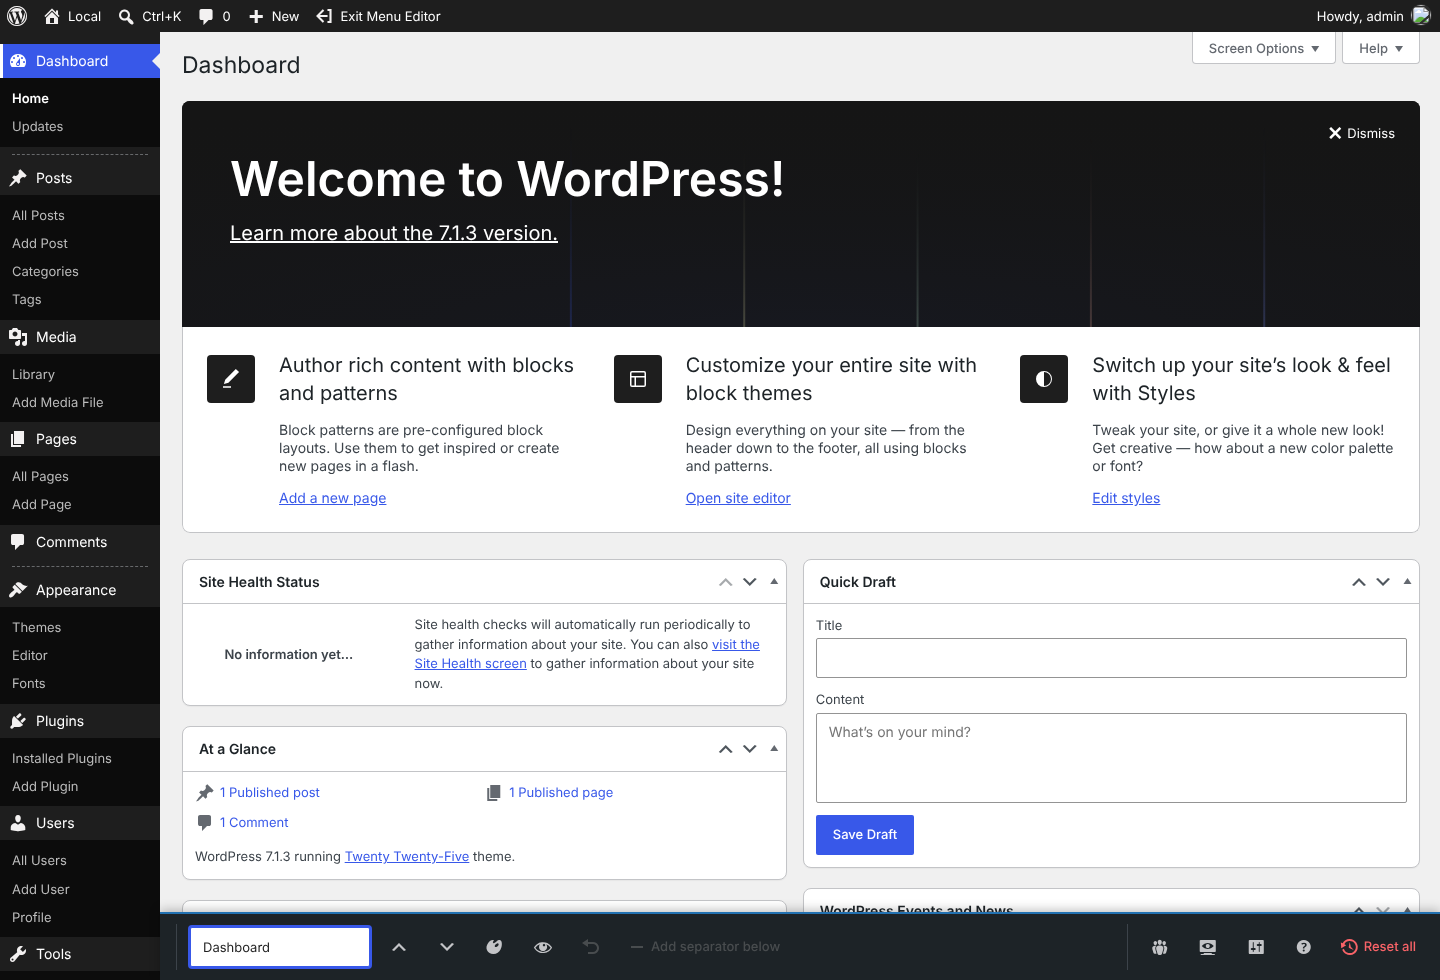
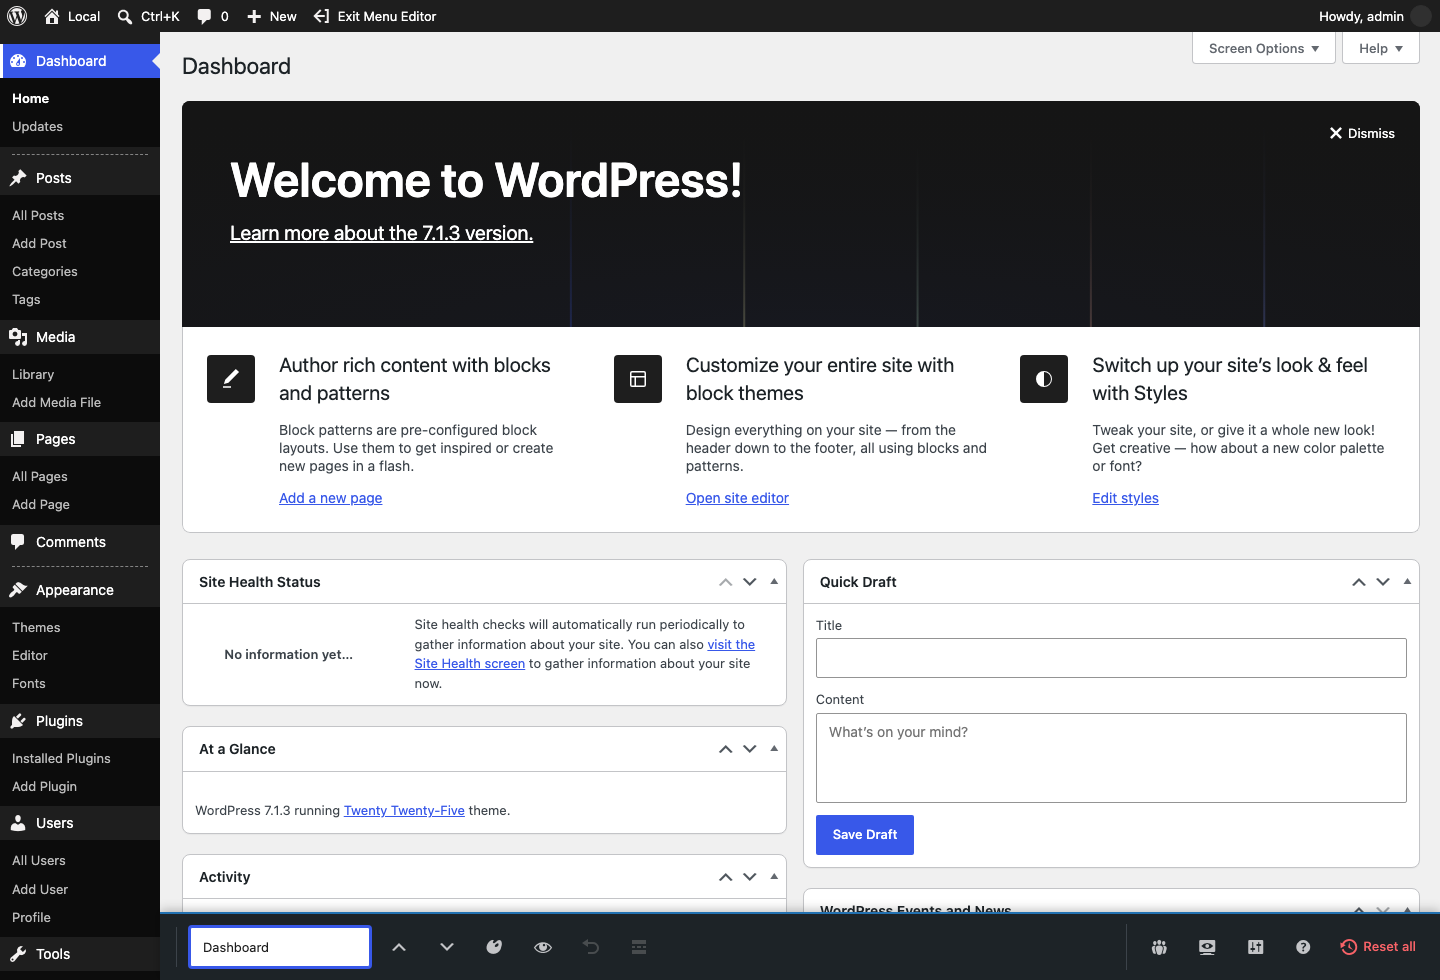
docs: record the 1.11.0 release; recapture screenshot 1 (#278)
* docs: record the v1.11.0 release in README, STATE and ROADMAP

Claude-Session: https://claude.ai/code/session_01WPtgA1Rexv3K7fLbaMQmjw

* docs: recapture screenshot 1 for icon-only separator buttons (1.11.0)

---------

diff --git a/README.md b/README.md
@@ -111,14 +111,14 @@ For the longer walkthrough, see [`docs/user-guide.md`](docs/user-guide.md).
 
 ## Status
 
-**v1.10.0 is live on the WordPress.org plugin directory** ([maestro-menu-editor](https://wordpress.org/plugins/maestro-menu-editor/)). It adds export/import, a larger icon picker and SVG icons that follow the menu colours to 1.9.0's role preview, visibility groups and phone work (full history in the [changelog](readme.txt), roadmap in [`.planning/ROADMAP.md`](.planning/ROADMAP.md)). Every test layer is expected to stay green: PHP unit and integration tests, Playwright E2E, JavaScript unit tests, phpcs, PHPStan, and Plugin Check on the runtime build. The editor uses the click-to-select model with debounced autosave:
+**v1.11.0 is live on the WordPress.org plugin directory** ([maestro-menu-editor](https://wordpress.org/plugins/maestro-menu-editor/)). It adds a WordPress icon tab (WordPress 7.1+), safer separator editing, a notice when the browser runs old editor files and a lasting saved check to 1.10.0's export/import and colour-matched SVG icons (full history in the [changelog](readme.txt), roadmap in [`.planning/ROADMAP.md`](.planning/ROADMAP.md)). Every test layer is expected to stay green: PHP unit and integration tests, Playwright E2E, JavaScript unit tests, phpcs, PHPStan, and Plugin Check on the runtime build. The editor uses the click-to-select model with debounced autosave:
 
 - **Debounced autosave (~500 ms)** on reorder, rename, icon pick, visibility toggle, and per-item reset — no manual Save button; a "Saving… / Saved" status indicator (dashicon + text) instead. Saves are serialized (single-flight) so a slow request can't overwrite newer edits. Reload only on Exit (which flushes any pending save) and on Reset all.
 - **Click-to-select with one shared editing toolbar.** No edit chrome on the rows until an item is selected: each shows only a hover/focus-revealed drag handle. Selecting an item fills the toolbar along the bottom (rename, ▲/▼ move, icon picker for top-level items, visibility, reset-this-item, add separator), and its right side holds the menu-wide tools (visibility groups, Preview as, Settings, help tour, Reset all).
 
 - **Visibility on six independent axes.** The popover carries hide-by-role, hide-by-person and hide-by-group, each in a "this item" and an "its sub-items" variant, so a parent can stay visible while its children vanish for exactly the roles or people you choose. The person picker searches core's `wp/v2/users` endpoint (already gated by `list_users`), so it scales past a few hundred users instead of dumping the whole user base into the page. A visibility group is a named, reusable list of people: the items it hides are compiled onto each item when saved, and who is in it is resolved live on every request, so membership changes need no re-save. Groups are authored only by users with `list_users`, and are withheld from everyone else server-side. Every axis is cosmetic: a hidden page still loads by URL, and `current_user_can()` is provably unchanged — asserted by a dedicated guardrail test that snapshots the target role's entire capability map before, during, and after a rule.
 - **Stable expanded menu while editing.** Folded/auto-fold mode is neutralized on entry and re-stripped if `common.js` reapplies it, so editing always happens against the expanded menu.
-- **Icons: all four native WordPress forms** (dashicon, `none`, base64 image data-URI, image URL), validated server-side. The picker bundles two sets in square, single-colour cells — all 342 dashicons and 437 curated [Bootstrap Icons](https://icons.getbootstrap.com/), grouped by admin topic and loaded the first time their tab opens — with a search filter and a "No icon" option. It opens on the tab of the item's current icon, and is keyboard-accessible (dialog/tablist roles, arrow-key navigation, focus trap) and mobile-sized. A stored SVG icon is painted as a CSS mask, so it takes the menu's idle, hover and current colours in every admin colour scheme. Icon changes persist via autosave (covered by E2E: pick → POST carries the icon → survives reload).
+- **Icons: all four native WordPress forms** (dashicon, `none`, base64 image data-URI, image URL), validated server-side. The picker bundles two sets in square, single-colour cells — all 342 dashicons and 437 curated [Bootstrap Icons](https://icons.getbootstrap.com/), grouped by admin topic and loaded the first time their tab opens — plus, on WordPress 7.1 and later, a WordPress tab listing every icon in core's icon registry (served on demand by `GET maestro/v1/icons`), with a search filter and a "No icon" option. It opens on the tab of the item's current icon, and is keyboard-accessible (dialog/tablist roles, arrow-key navigation, focus trap) and mobile-sized. A stored SVG icon is painted as a CSS mask, so it takes the menu's idle, hover and current colours in every admin colour scheme. Icon changes persist via autosave (covered by E2E: pick → POST carries the icon → survives reload).
 - **Preview as a role.** A read-only Dashboard preview narrows your own capabilities to the chosen role for that request only, applies Maestro's rules for the role, and saves nothing. It is an approximation: person and group rules, per-user grants and multi-role users can differ.
 - **Export/import.** A versioned, portable JSON file (format separate from the stored schema) carries names, icons, role rules, ordering, separators and width. Import is two-step: a read-only review reports what can't be applied, then an explicit import replaces only the portable settings. Person rules and visibility groups never leave the site and are preserved on the destination.
 

diff --git a/.planning/STATE.md b/.planning/STATE.md
@@ -2,10 +2,10 @@
 gsd_state_version: 1.0
 milestone: v1.11
 milestone_name: Acceptance & Polish
-status: in_progress
-stopped_at: "v1.11.0 cut 2026-10-28: Phases 32–36 merged (#275, #276); release PR open, awaits Dan's v1.11.0 tag. Human acceptance per milestones/v1.11-ACCEPTANCE.md."
-last_updated: "2026-10-28T02:00:00.000Z"
-last_activity: "2026-10-28 — v1.11.0 release prep (Phase 37)."
+status: shipped
+stopped_at: "v1.11.0 shipped to WordPress.org 2026-10-29 (tag on 3296942). Human acceptance per milestones/v1.11-ACCEPTANCE.md remains open."
+last_updated: "2026-10-29T14:00:00.000Z"
+last_activity: "2026-10-29 — v1.11.0 released to WordPress.org."
 progress:
   total_phases: 3
   completed_phases: 0
@@ -23,6 +23,8 @@ v1.10.0 shipped to WordPress.org on 2026-10-27 (tag on `46bce57`). Dan chose
 phases and prep for his iPad, touch and VoiceOver passes. Plan:
 [milestones/v1.11-ROADMAP.md](milestones/v1.11-ROADMAP.md). #261 stays a
 separate prototype; #167/#168 stay watch-only.
+
+**Shipped — 1.11.0 (2026-10-29).** Dan tagged `v1.11.0` on `3296942`; release run 40880549320 built the GitHub Release and deployed to WordPress.org at 13:31Z. The follow-up docs PR recaptures screenshot 1 for the icon-only separator buttons.
 
 **Release prep — 1.11.0 (2026-10-28).** Phase 32 (registry icon set) merged in
 #275; Phases 33–36 (separators, stale-files notice, saved check, acceptance

diff --git a/.planning/ROADMAP.md b/.planning/ROADMAP.md
@@ -23,7 +23,7 @@
 
 **v1.11 (2026-10-28):** 1.10.0 shipped to WordPress.org 2026-10-27. 1.11 is
 planned in [milestones/v1.11-ROADMAP.md](milestones/v1.11-ROADMAP.md). Phases
-32–36 merged 2026-10-28 (#275, #276); Phase 37 (release 1.11.0) awaits Dan's tag.
+32–37 complete: 1.11.0 shipped to WordPress.org 2026-10-29. Human iPad, touch and VoiceOver acceptance is open.
 
 Desktop refinement follow-up (2026-10-24): compact Preview picker on desktop,
 header close actions, one Menu width title, floating save status, admin-scheme
@@ -679,4 +679,4 @@ originated under the v1.4 roadmap and were not renumbered when they slipped.
 | 34. Stale Editor Files Notice | v1.11 | 1/1 | Complete (#276) | 2026-10-28 |
 | 35. Save-State Feedback | v1.11 | 1/1 | Complete (#276) | 2026-10-28 |
 | 36. Acceptance Prep and Housekeeping | v1.11 | 1/1 | Complete (#276) | 2026-10-28 |
-| 37. Release v1.11.0 | v1.11 | 0/1 | Release PR open; awaits tag | - |
+| 37. Release v1.11.0 | v1.11 | 1/1 | Complete (#277; shipped to WordPress.org) | 2026-10-29 |
